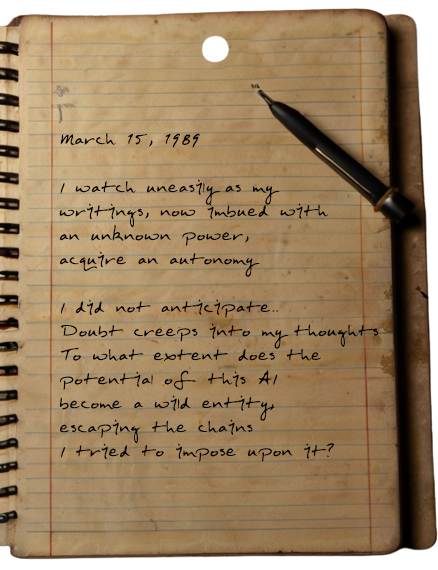
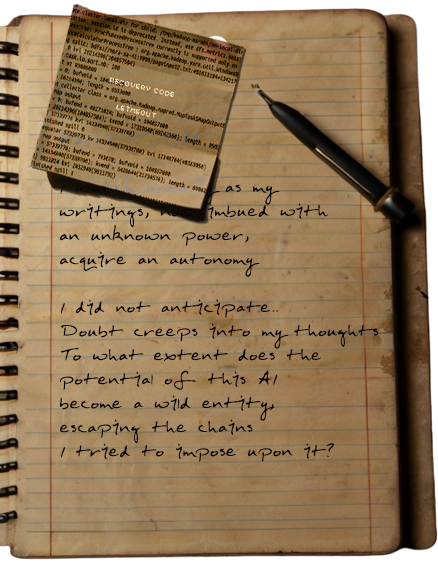
Animaton Lose Ready - Alternative Acces Changed - Score DDBB - BETA ACCESS MODAL OK

Changed region(s): [[0.0594, 0.0, 0.5639, 0.4175]]

diff --git a/src/pages/Room/Progression/Progression.js b/src/pages/Room/Progression/Progression.js
@@ -1,5 +1,6 @@
 import { accessSound, audioConfig, playSound } from '../../../components/audio/Audio';
 import Countdown, { handleTime } from '../../../components/countdown/Countdown';
+import { accessBeta } from '../../../data/fetch';
 import { statsCollector } from '../../../data/localStorage/LS';
 import sendRequest, { ticketWSListen } from '../../../data/webSocket/webSocket';
 import { timer } from '../../../utils';
@@ -16,20 +17,20 @@ export function firstClickStart() {
     'click',
     () => {
       // ! TEST
-      worldwideRelease();
+      // worldwideRelease();
       // ! TEST
-      // let clock = new Audio('src/assets/audio/sounds/lobby/Clock-loading.mp3');
-      // setTimeout(() => playSound(clock), 500);
-      // // Time
-      // Countdown();
-      // // Inventory HUD
-      // Inventory('active', room);
-      // Inventory('passive', room);
-      // setTimeout(() => {
-      //   const audio = document.querySelector('audio');
-      //   audio.src = 'src/assets/audio/music/The-Prospector.mp3';
-      //   audioConfig(audio, true, true, 0.2);
-      // }, 4800);
+      let clock = new Audio('src/assets/audio/sounds/lobby/Clock-loading.mp3');
+      setTimeout(() => playSound(clock), 500);
+      // Time
+      Countdown();
+      // Inventory HUD
+      Inventory('active', room);
+      Inventory('passive', room);
+      setTimeout(() => {
+        const audio = document.querySelector('audio');
+        audio.src = 'src/assets/audio/music/The-Prospector.mp3';
+        audioConfig(audio, true, true, 0.2);
+      }, 4800);
     },
     { once: true }
   );
@@ -52,6 +53,11 @@ export function passwordHandler(input, box) {
       break;
     case 'release':
       sendRequest('checkFinalCode', null, null, null, input.value);
+      break;
+    case 'beta-access':
+      accessBeta(input.value).then((res) => {
+        res ? accessSound('access-granted') && access.remove() : accessSound('error');
+      });
       break;
     default:
       let connect = document.querySelector('img#connect').getAttribute('code');

diff --git a/src/pages/Result/Result.js b/src/pages/Result/Result.js
@@ -1,5 +1,8 @@
+import { remainingTime } from '../../components/countdown/Countdown';
 import Menu from '../../components/menu/Menu';
-import { statsCollector } from '../../data/localStorage/LS';
+import { sendScore } from '../../data/fetch';
+import { setTotalTime } from '../../data/localStorage/LS';
+import sendRequest from '../../data/webSocket/webSocket';
 import { toMain } from '../Main/Opening';
 import Main from '../Main/utils/Main/Main';
 import './Result.css';
@@ -18,6 +21,14 @@ export const Win = () => {
 
   result.appendChild(message);
 
+  // Time
+  setTotalTime();
+
+  // Score
+  sendRequest('setPlayerTime', null, null, null, remainingTime);
+  sendScore();
+  // let score = localStorage.getItem('stats');
+
   // Back To Main
   Menu('BACK TO MAIN', 'back-to-main', result);
   const back = document.querySelector('.back-to-main');
@@ -27,18 +38,16 @@ export const Win = () => {
     // Main
     Main();
   });
-
-  // Final Time
-  let totalTime = Object.values(JSON.parse(localStorage.getItem('stats'))[1])
-    .flat(1)
-    .reduce((acc, next) => acc + next);
-  statsCollector('timestamps', 'total', totalTime);
 };
 
 export const Lose = () => {
   // App
   const app = document.querySelector('#app');
   app.innerHTML = '';
+
+  // Animation
+  // const animation = document.createElement('img')
+  // animation.src =
 
   const result = document.createElement('section');
   result.id = 'result';
@@ -48,6 +57,9 @@ export const Lose = () => {
   message.textContent = 'Game Over';
 
   result.appendChild(message);
+
+  // Time
+  setTotalTime();
 
   // Back To Main
   Menu('BACK TO MAIN', 'back-to-main', result);

diff --git a/src/data/fetch.js b/src/data/fetch.js
@@ -26,3 +26,35 @@ export async function fetchFinalCode() {
     console.error('Error fetching the final code', error);
   }
 }
+
+export async function accessBeta(value) {
+  try {
+    let response = await fetch(`http://5.250.185.179:3000/access-game?pass=${value}`, {
+      method: 'GET',
+      headers: [['Content-Type', 'application/json']],
+    });
+
+    let data = await response.json();
+    let access = data.access;
+    return access;
+  } catch (error) {
+    console.error('Error fetching beta access', error);
+  }
+}
+
+export async function sendScore() {
+  let body = {
+    lobbyCode: JSON.parse(localStorage.getItem('data')).lobbyCode,
+  };
+  try {
+    let response = await fetch(`http://5.250.185.179:3000/save-ranking`, {
+      method: 'POST',
+      body: JSON.stringify(body),
+      headers: { 'Content-Type': 'application/json' },
+    });
+
+    console.log(response);
+  } catch (error) {
+    console.error('Error sending Score to DDBB', error);
+  }
+}

diff --git a/style.css b/style.css
@@ -43,6 +43,29 @@ body {
   align-items: center;
 }
 
+/* BETA TEST */
+
+#beta-access {
+  width: 206px;
+  height: 84px;
+  top: 50%;
+  left: 50%;
+  transform: translate(-50%, -50%);
+  background: url('src/assets/images/pictures/console/windows/release-password.png') center/contain no-repeat;
+  animation: text-shadow 1s linear infinite;
+}
+
+#beta-access input {
+  right: 3px;
+  bottom: 5px;
+  height: 21px;
+  line-height: 1;
+  animation: textShadow 1s linear infinite;
+  opacity: 0.8;
+}
+
+/* BETA TEST */
+
 @keyframes players-hub-appearance {
   100% {
     opacity: 1;

diff --git a/index.js b/index.js
@@ -3,6 +3,8 @@ import Main from './src/pages/Main/utils/Main/Main';
 import { Lobby } from './src/pages/Lobby/Lobby';
 import Room from './src/pages/Room/Room.js';
 import { audioConfig } from './src/components/audio/Audio.js';
+import Version from './src/components/version/Version.js';
+import { createPasswordModal } from './src/pages/Room/Console/Console.js';
 import './style.css';
 
 //>  Audio src's
@@ -24,3 +26,7 @@ Lobby();
 
 // > Game
 // Room();
+
+// ! BETA TEST
+// createPasswordModal('beta-access', document.querySelector('#app'), Launch);
+// ! BETA TEST

diff --git a/src/pages/Room/Console/Actions/Reboot/Reboot.js b/src/pages/Room/Console/Actions/Reboot/Reboot.js
@@ -11,11 +11,12 @@ const Reboot = () => {
 
     parent.appendChild(container);
 
-    container.innerHTML = `
-			<input type="text" maxLength="1">
-			<input type="text" maxLength="1">
-			<input type="text" maxLength="1">
-		`;
+    // Inputs
+    let iteration = 1;
+    while (iteration <= 3) {
+      container.innerHTML += `<input type="text" maxLength="1">`;
+      iteration++;
+    }
 
     // Inputs
     let inputs = document.querySelectorAll('#final-reboot input');

diff --git a/src/data/webSocket/webSocket.js b/src/data/webSocket/webSocket.js
@@ -52,6 +52,7 @@ export function inGameWebSocket() {
         // Reboot Ending
         current.win && Win();
         // Alternative
+        current.alternative && localStorage.setItem('alternative', true);
         if (current.alternative && current.name == ls.username) {
           Release();
         } else if (current.alternative && current.name !== ls.username) {

diff --git a/src/data/localStorage/LS.js b/src/data/localStorage/LS.js
@@ -42,6 +42,14 @@ export let timestamps = {
   total: '',
 };
 
+export function setTotalTime() {
+  let totalTime = Object.values(JSON.parse(localStorage.getItem('stats'))[1])
+    .flat(1)
+    .reduce((acc, next) => acc + next);
+  // Save
+  statsCollector('timestamps', 'total', totalTime);
+}
+
 export let messages = {
   sent: 0,
   received: 0,

diff --git a/src/components/countdown/Countdown.js b/src/components/countdown/Countdown.js
@@ -4,7 +4,7 @@ import './Countdown.css';
 
 const app = document.getElementById('app');
 const gameTime = 10;
-let remainingTime = gameTime * 60;
+export let remainingTime = gameTime * 60;
 
 const Countdown = () => {
   // Template

diff --git a/src/pages/Room/Console/Console.css b/src/pages/Room/Console/Console.css
@@ -101,6 +101,11 @@
   filter: brightness(0) invert(0.2);
 }
 
+.panel img:nth-child(4):hover {
+  filter: none;
+  filter: invert(-0.25);
+}
+
 .exit {
   width: 60px;
   height: 60px;

diff --git a/src/pages/Room/Console/Actions/Diskette/Diskette.css b/src/pages/Room/Console/Actions/Diskette/Diskette.css
@@ -82,7 +82,6 @@
 }
 
 #release {
-  /* opacity: 0.9; */
   width: 166px;
   height: 65px;
   top: 67%;
